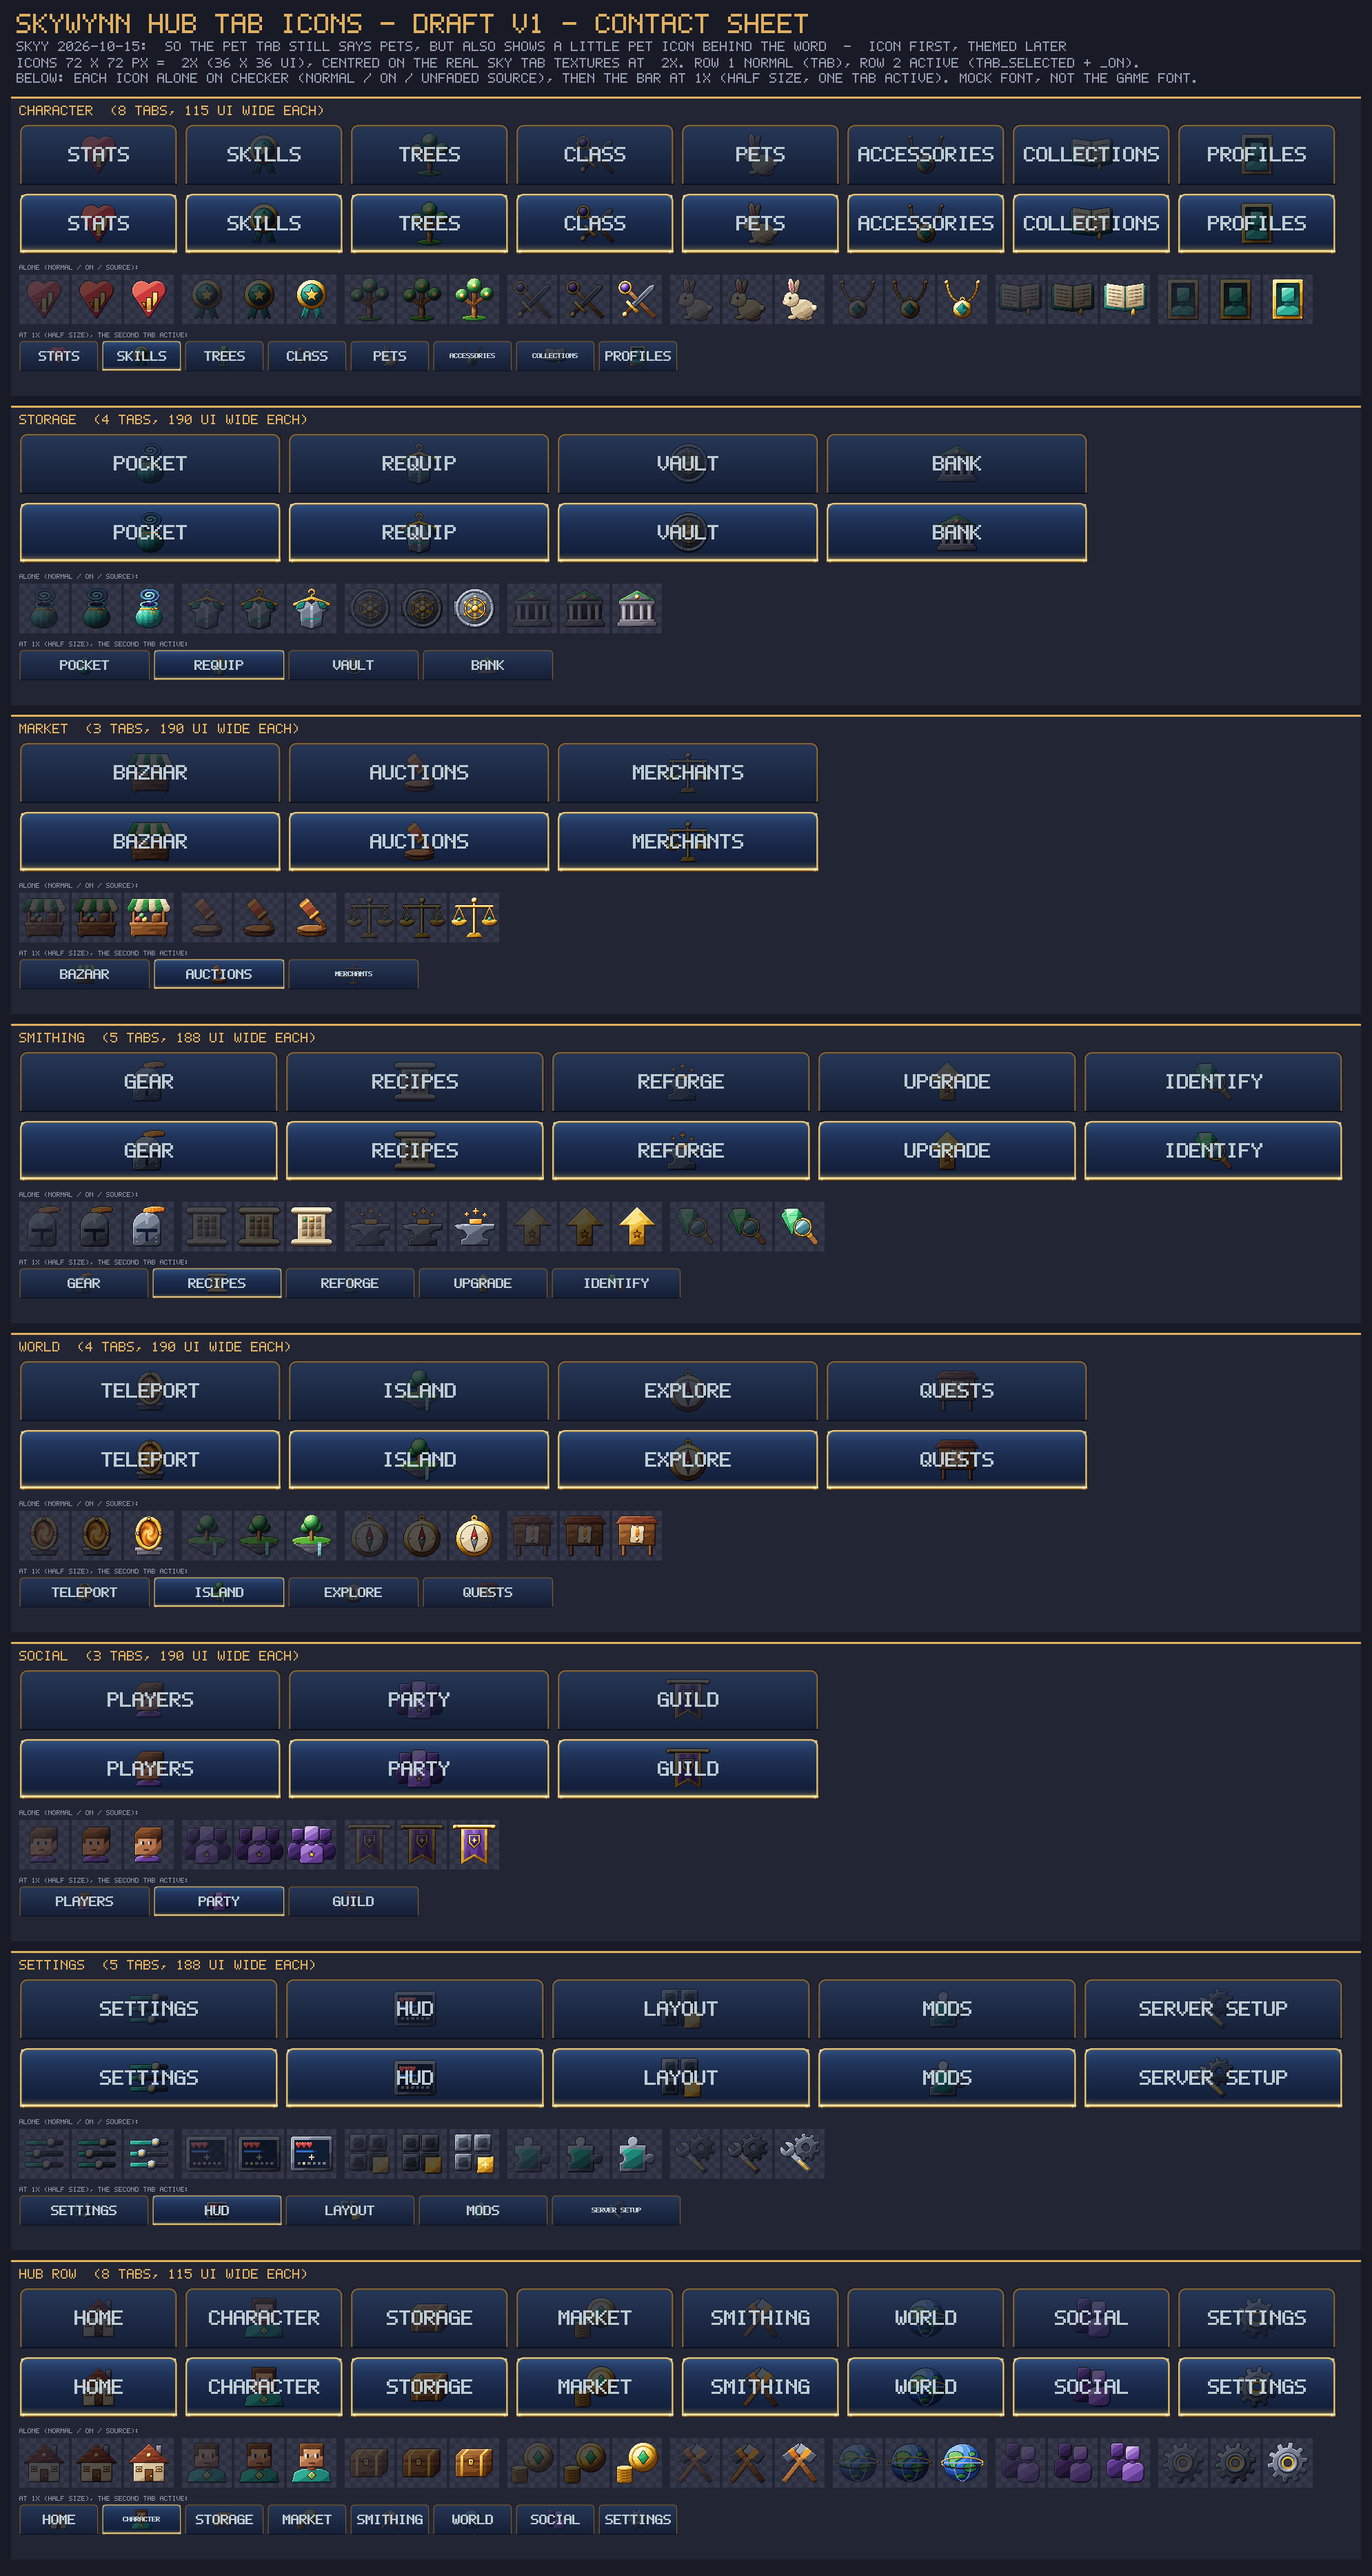
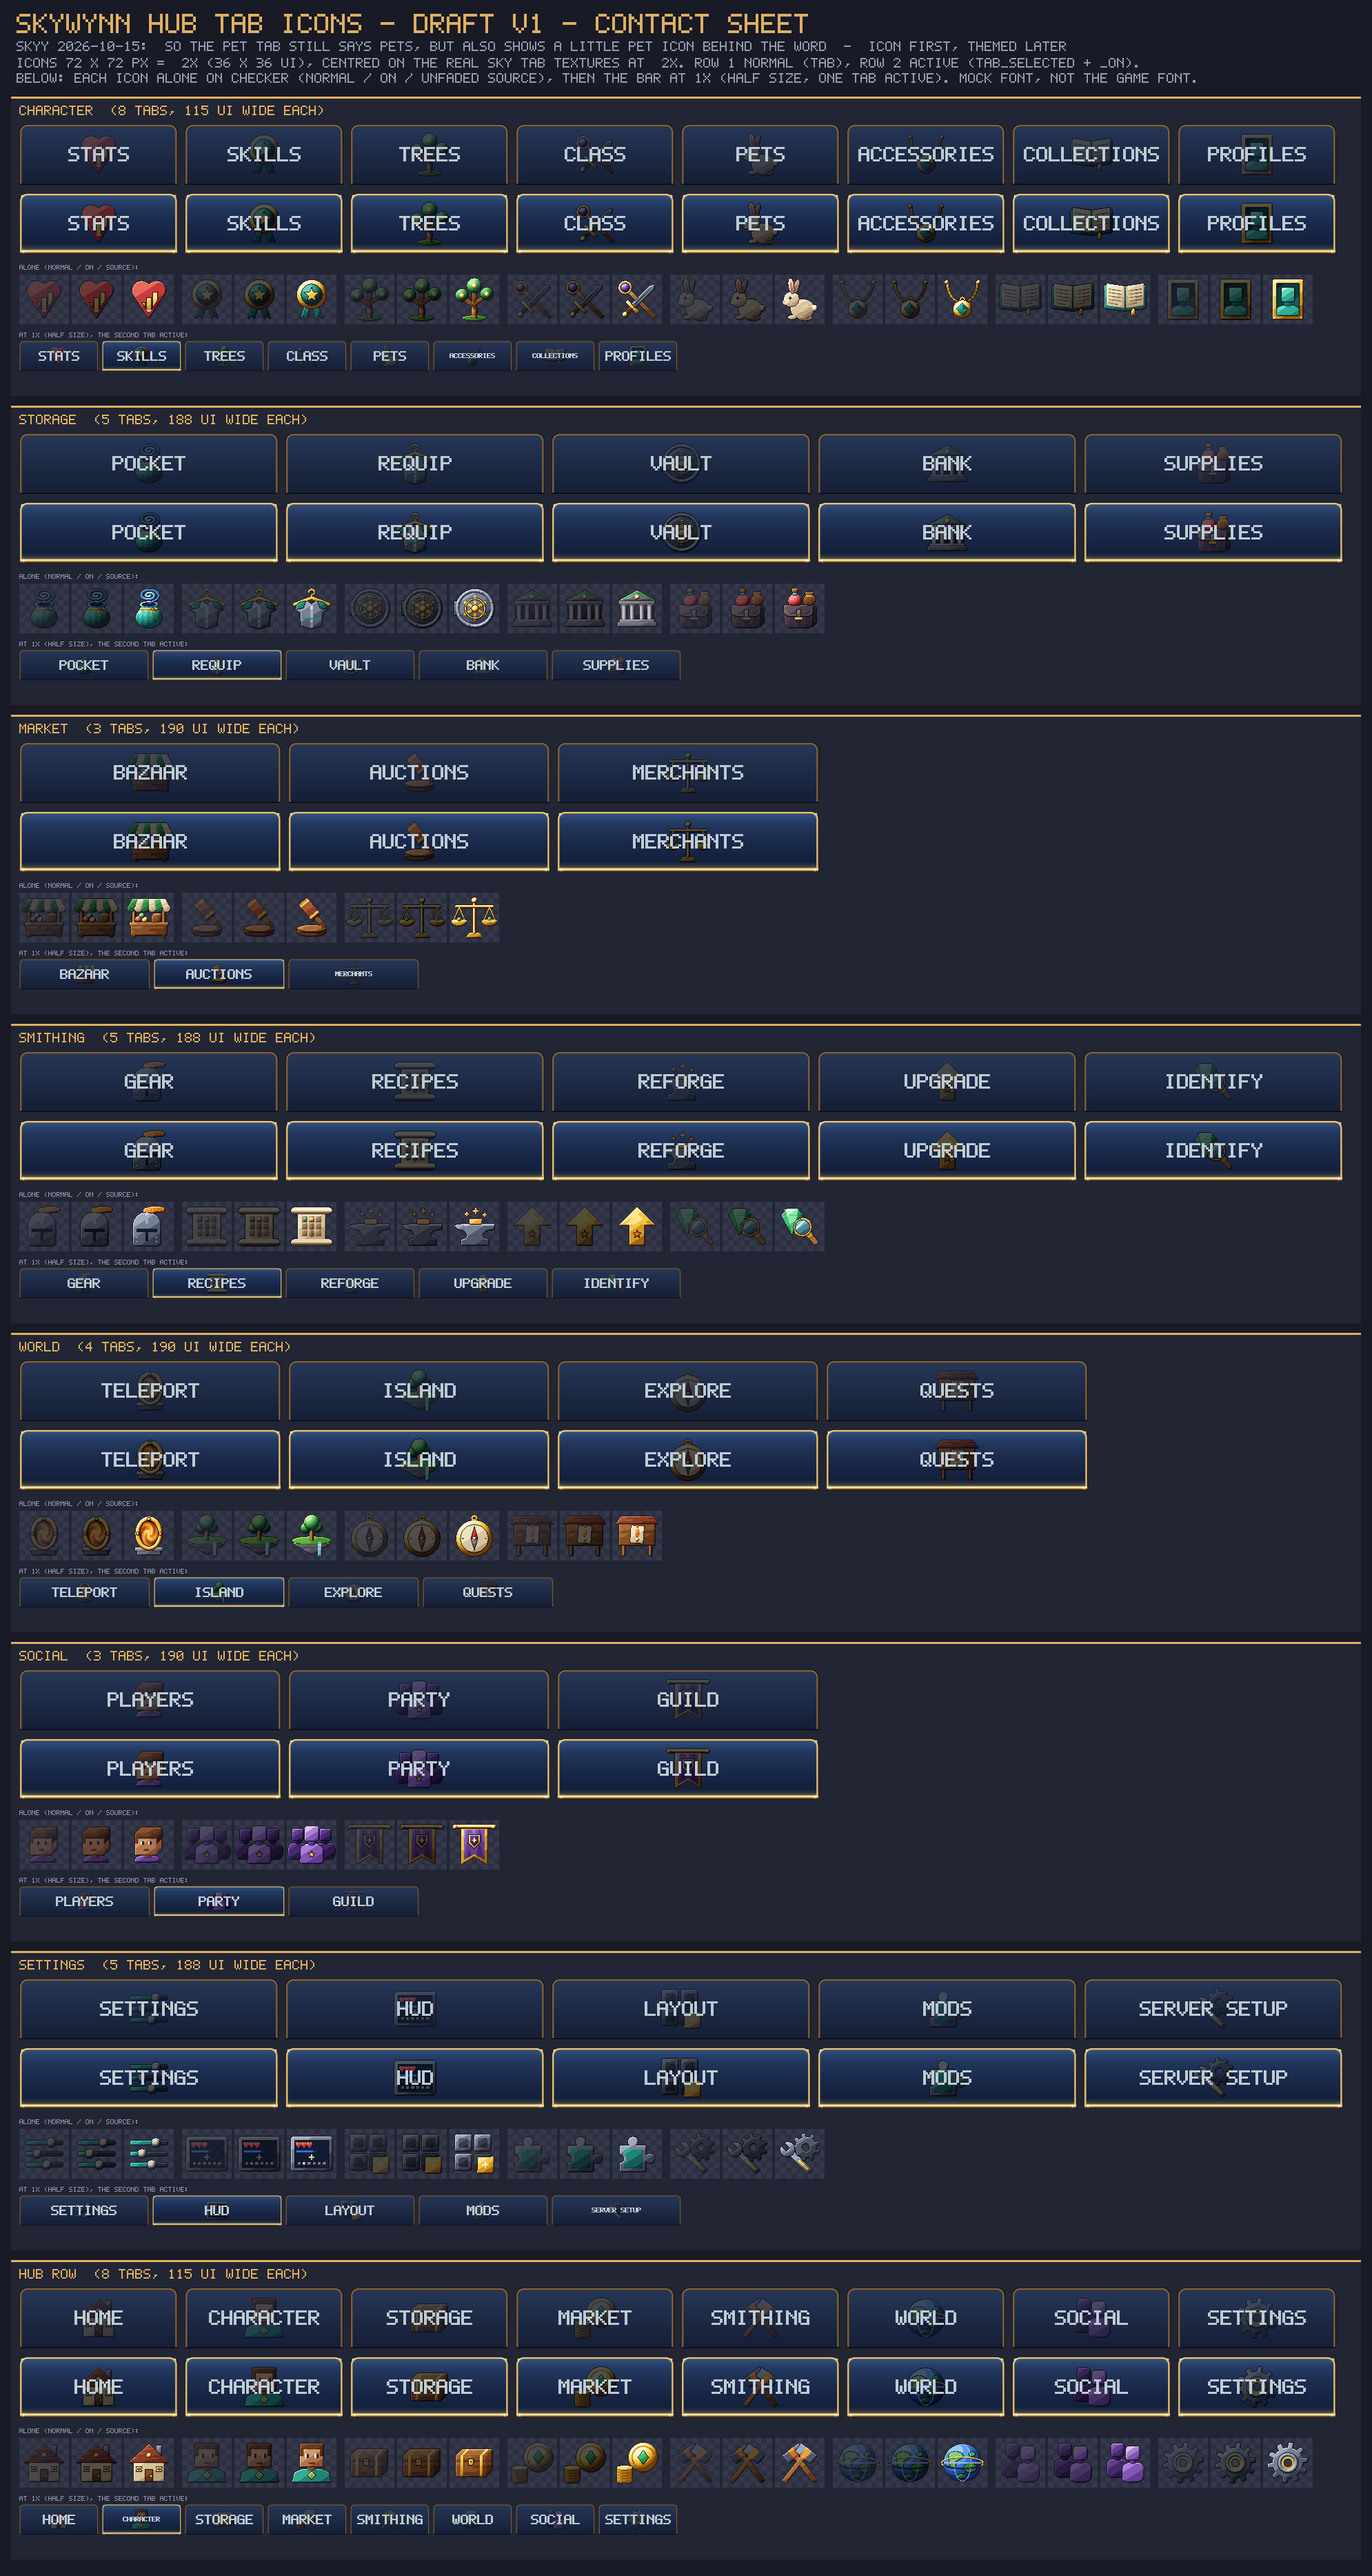
art: Supplies hub tab picture pair; log Menu 0.3.39

diff --git a/tools/art/make_hub_tab_icons.py b/tools/art/make_hub_tab_icons.py
@@ -22,8 +22,9 @@ Writes (all ORIGINAL pixels; no game file is read):
   art/hub-tab-icons/hubrow_<hub>.png (+ _on)  one per hub for the hub row (home, character, ..., settings)
   art/hub-tab-icons/manifest.json          per icon: hub, tab, label, files, bytes, sha256, min contrast; size + fade rules
   --sheet PATH                             the review contact sheet (every icon behind its word on the Sky tab, normal + active)
+  --compare PATH                           the Storage > Supplies review sheet (its tab row + the approved satchel it follows)
 
-Run:   python tools/art/make_hub_tab_icons.py [--sheet <png>]     (deterministic: two runs = same bytes)
+Run:   python tools/art/make_hub_tab_icons.py [--sheet <png>] [--compare <png>]     (deterministic: two runs = same bytes)
 Check: python tools/art/make_hub_tab_icons.py --check             (prints one line per check, ALL OK / N FAILED, exit 1 on fail)
 """
 import hashlib, json, math, os, sys
@@ -47,6 +48,8 @@ PAL3 = {
     "pink": ["#3a1424", "#5e2238", "#8a3650", "#b5506a", "#d97488", "#f0a2ae", "#fbd2d4"],
     "skin": ["#3b2018", "#5e3424", "#8a5236", "#b4744c", "#d39a6c", "#ecc293", "#f8e2c4"],
     "hair": ["#1e100c", "#331b12", "#4c2a18", "#683c20", "#86522c", "#a46d3e"],
+    # the APPROVED black-leather satchel's ramp (art/accessory-bag-icon manifest "leather_v2", Skyy 2026-10-08) - the Supplies tab
+    "bleather": ["#0f0b16", "#18131f", "#221b28", "#2d2431", "#3a2e3b", "#4c3e47", "#67565c", "#8c7a7a"],
 }
 for _k, _v in PAL3.items():
     if _k not in M.PAL:
@@ -348,6 +351,32 @@ def t_profiles():
 
 
 # ====================================================================== STORAGE hub (teal / leather / steel)
+def t_supplies():
+    """Storage > Supplies (SkyyCooking: the Potion Flask + Food Pouch): the approved black-leather satchel (art/accessory-bag-icon look -
+    stepped flap, strap tongue, gold clasp; no booster gems - those belonged to the bag of charms) with a red potion flask and a tied
+    brown food pouch peeking out of its top"""
+    ic = Icon("supplies")
+    # behind the bag: the food pouch (right) and the potion flask (left)
+    ic.add(ellipse(46, 24, 8.5, 7.5), "leather", base=0.58, grad=0.55, pattern=folds(1.1, 0.06), line=True)     # food pouch
+    ic.add(poly([(42, 18), (50, 18), (52.5, 12.5), (39.5, 12.5)]), "leather", base=0.7, grad=0.4, bevel=0.7)         # its ruffled top
+    ic.add(rect(41.5, 17, 50.5, 19.3), "gold", base=0.6, bevel=0, cast=False)                                     # the tie
+    ic.add(circle(25, 24.5, 9.5), "red", mode="sphere", base=0.62, line=True)                                        # flask body
+    ic.add(rect(22, 12, 28, 17), "glass", base=0.6, grad=0.4, bevel=0.7, line=True)                             # neck
+    ic.add(rrect(21, 7, 29, 12.5, 1.2), "wood", base=0.62, grad=0.5, bevel=0.8, line=True)                          # cork
+    ic.px(21, 20, "#f7a493"); ic.px(22, 19, "#f7a493")
+    # the satchel: a soft rounded body with a thin side gusset, a rounded flap with a stitched hem, the strap tongue + gold clasp
+    ic.add(rrect(13.5, 31, 56, 62, 7), "bleather", base=0.38, grad=0.4, bevel=0.6)                                 # side gusset
+    ic.add(rrect(10, 33, 51, 64, 7), "bleather", base=0.6, grad=0.5, bevel=1.0, pattern=folds(0.55, 0.05), line=True)   # body
+    ic.add(poly([(10, 33), (51, 33), (56, 31), (14.5, 31)]), "bleather", base=0.85, bevel=0, cast=False)            # top lip
+    flap = union(rect(9, 31, 52, 41), rrect(9, 31, 52, 48, 8))
+    ic.add(flap, "bleather", base=0.74, grad=0.55, bevel=1.1, line=True)                                            # front flap
+    ic.add(diff(rrect(11.5, 31, 49.5, 45.8, 6.5), rrect(12.5, 31, 48.5, 44.8, 5.5), rect(0, 0, 72, 38)), "bleather", base=0.98, bevel=0, cast=False)   # stitched hem
+    ic.add(union(rect(27.5, 37, 33.5, 53), rrect(27.5, 37, 33.5, 56, 3)), "bleather", base=0.84, grad=0.5, bevel=0.9, line=True)   # strap tongue
+    ic.add(rrect(24.5, 48.5, 36.5, 52.5, 1.0), "gold", base=0.62, grad=0.6, bevel=0.8, line=True)                  # clasp bar
+    ic.add(circle(30.5, 50.5, 1.3), "gold", mode="sphere", base=0.85, bevel=0, cast=False)
+    return ic
+
+
 def t_requip():
     ic = Icon("requip")
     ic.add(diff(ering(36, 10.5, 5, 5, 2.8, 2.8), rect(31, 10.5, 36, 16)), "gold", base=0.6, bevel=0)  # hanger hook
@@ -756,6 +785,7 @@ TABS = [
     ("storage", "requip", "Requip", t_requip, "a steel chestplate with teal pauldrons hanging on a gold clothes hanger"),
     ("storage", "vault", "Vault", t_vault, "a round steel vault door (bolt ring, side hinge) with a gold spoked wheel"),
     ("storage", "bank", "Bank", t_bank, "a stone bank with four columns, a green roof, a gold coin in the pediment and steps"),
+    ("storage", "supplies", "Supplies", t_supplies, "the approved black-leather satchel (stepped flap, strap tongue, gold clasp) with a red potion flask and a tied brown food pouch peeking out of its top"),
     ("market", "bazaar", "Bazaar", t_bazaar, "a market stall: green / cream striped scalloped awning, wooden counter, fruit and a crate"),
     ("market", "auctions", "Auctions", t_auctions, "an auction gavel (mahogany head, gold bands) over its round sound block"),
     ("market", "merchants", "Merchants", t_merchants, "gold balance scales with a coin on one pan and an emerald on the other"),
@@ -908,6 +938,30 @@ def build_sheet(icons):
     return cv.png()
 
 
+def build_compare(icons):
+    """the Supplies review sheet: the Storage tab row (normal + active) with Supplies next to its neighbours, Supplies alone at 4x
+    (source / normal / on), and the approved 64 px satchel item icon it follows (art/accessory-bag-icon, our own art)"""
+    items = [t for t in TABS if t[0] == "storage"]
+    wui = tab_w(len(items)); gap = 10
+    W = max(60 + len(items) * (wui * 2 + gap), 1300); H = 640
+    cv = Canvas(W, H, BG)
+    cv.text(24, 20, "STORAGE > SUPPLIES TAB PICTURE - NEXT TO ITS NEIGHBOURS", GOLDT, 3)
+    cv.text(24, 50, "ROW 1 NORMAL (TAB), ROW 2 ACTIVE (TAB_SELECTED + _ON), @2X. MOCK FONT, NOT THE GAME FONT.", DIM, 2)
+    for r, (state, mode) in enumerate((("Tab", "normal"), ("Tab_Selected", "on"))):
+        for k, t in enumerate(items):
+            draw_tab(cv, 24 + k * (wui * 2 + gap), 80 + r * 100, wui, state, icons[(t[0], t[1])][mode][0], t[2])
+    y = 290
+    cv.text(24, y, "SUPPLIES AT 4X: SOURCE / NORMAL / ON          THE APPROVED SATCHEL ITEM ICON (64 PX, 4X)", DIM, 2)
+    d = icons[("storage", "supplies")]
+    for j, img in enumerate((d["base"], d["normal"][0], d["on"][0])):
+        cv.checker(24 + j * 300, y + 28, 288, 288, (52, 56, 74), (44, 48, 64))
+        cv.blit(img, 24 + j * 300, y + 28, 4)
+    bag = os.path.join(ROOT, "art", "accessory-bag-icon", "Common", "Icons", "ItemsGenerated", "SkyyAccessories_Bag_Menu.png")
+    cv.checker(24 + 3 * 300 + 20, y + 28, 256, 256, (52, 56, 74), (44, 48, 64))
+    cv.blit(P.read_png(open(bag, "rb").read()), 24 + 3 * 300 + 20, y + 28, 4)
+    return cv.png()
+
+
 # ====================================================================== write
 def sha(b):
     return hashlib.sha256(b).hexdigest()
@@ -953,6 +1007,11 @@ def main(argv):
         with open(p, "wb") as fh:
             fh.write(build_sheet(icons))
         print("wrote contact sheet", p)
+    if "--compare" in argv:
+        p = argv[argv.index("--compare") + 1]
+        with open(p, "wb") as fh:
+            fh.write(build_compare(icons))
+        print("wrote the Supplies comparison sheet", p)
 
 
 # ====================================================================== validator
@@ -964,11 +1023,11 @@ def check_all(argv):
     man = json.load(open(os.path.join(OUT, "manifest.json"), encoding="utf-8"))
     files = dict((f["path"], f) for f in man["files"])
     want = set(fname(t[0], t[1], m) for t in ALL for m in ("normal", "on"))
-    check(len(TABS) == 32 and len(ROW) == 8 and not any(t[1] == "multitool" for t in TABS),
-          "32 hub tabs (Hubs-Spec 1.2 minus Multitool, merged into Upgrade) + 8 hub-row icons in the generator")
+    check(len(TABS) == 33 and len(ROW) == 8 and not any(t[1] == "multitool" for t in TABS),
+          "33 hub tabs (Hubs-Spec 1.2 minus Multitool, merged into Upgrade, + Storage > Supplies) + 8 hub-row icons in the generator")
     check(set(files) == want, "manifest file list = the %d expected files" % len(want))
     present = set(f for f in os.listdir(OUT) if f.endswith(".png"))
-    extra = present - want - {"contact-sheet.png"}
+    extra = present - want - {"contact-sheet.png", "supplies-compare.png"}
     check(not extra, "no stray PNGs in art/hub-tab-icons %s" % (sorted(extra) or ""))
     src = open(os.path.abspath(__file__), encoding="utf-8").read()
     forbidden = ["Assets" + ".zip", "Hytale" + "Server", "App" + "Data", "User" + "Data"]

diff --git a/docs/log/2026-10.md b/docs/log/2026-10.md
@@ -889,3 +889,4 @@
 - 2026-10-18 01:56 -0600: DEPLOYED Armory 0.1.34 (TEST 187) after the spear fix. LAUNCHED small batch: Gear 0.3.25 (multitool merge, accBp cache, GearReq red row, CAD trust A2), Collections 0.2.27 (tier-up tokens new metals), Menu 0.3.39 (Supplies tab picture). Usage 77%.
 - 2026-10-18 02:00 -0600: RESUME rewritten for the morning hand-off (live list 172-187, overnight defaults to review, NEXT after Skyy's answers).
 - 2026-10-18 02:12 -0600: BUILT Collections 0.2.27 (36 tier-up gates for the new metal tool steps on existing reward lines, CollRw27Mig, Setup check accepts new metal words): harness 308 ok, xc READY. Review running.
+- 2026-10-18 02:13 -0600: BUILT Menu 0.3.39 (Supplies tab picture pair storage_supplies(_on): satchel + flask + pouch, original pixels, validator ALL OK, compare sheet art/hub-tab-icons/supplies-compare.png; Mods list versions refreshed from the SET): harness 271 ok, xc READY. Visual review by main session: fits the Storage row.
